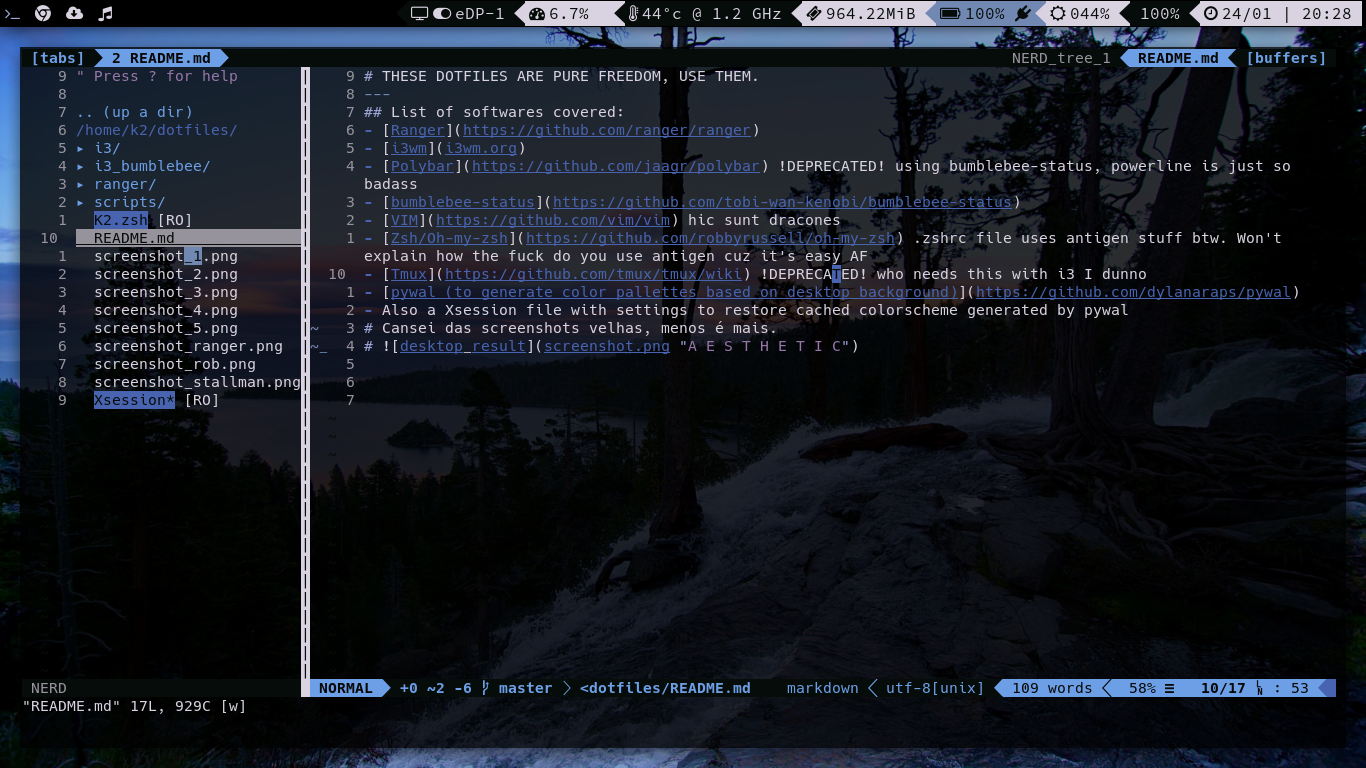
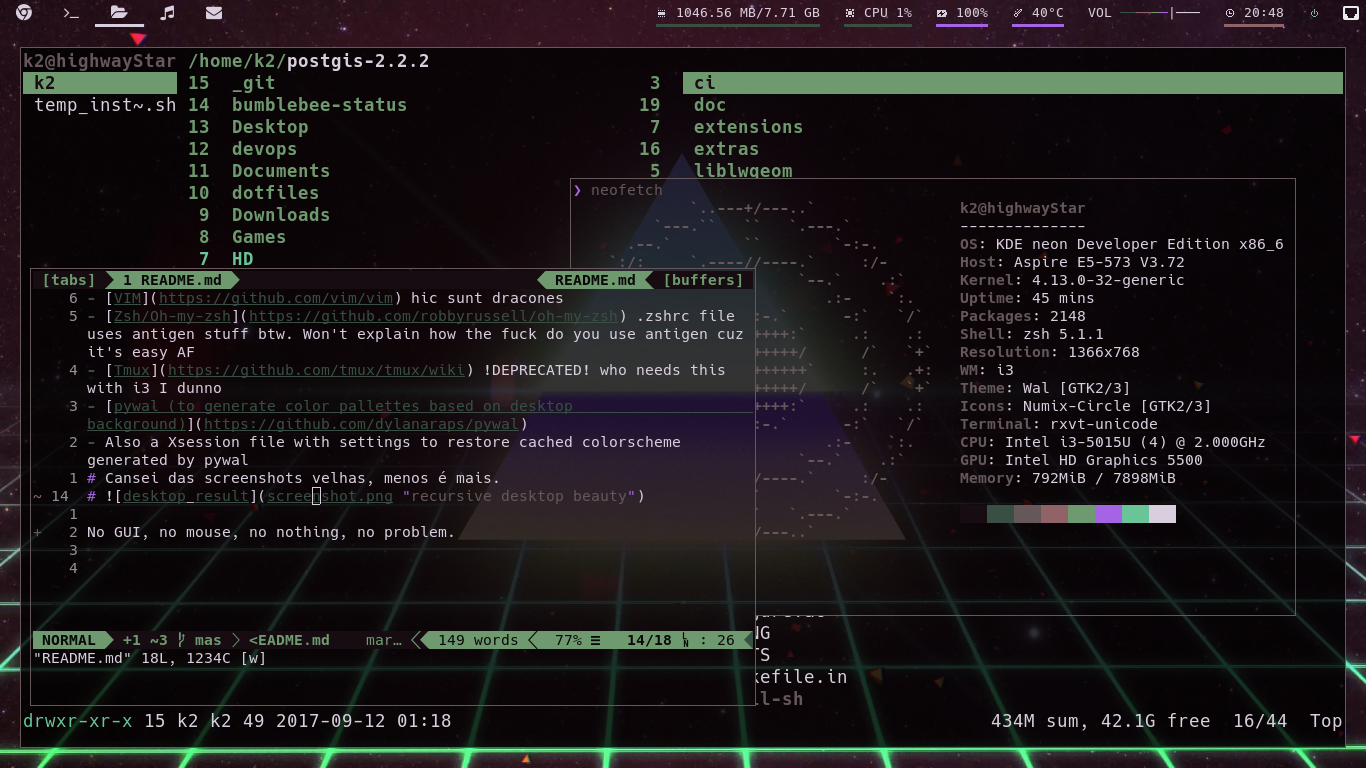
master | 'pra quê fazer uma função pra ficar mudando suas settings ao vivo no VIM?' R: Pegue um arquivo com um milhão de linhas e rode uma macro até o fim com tudo carregado no talo no seu vimrc. Enquanto você espera pacientemente (rs), a resposta virá até você

diff --git a/i3_bumblebee/bumblebee/modules/taskwarrior.py b/i3_bumblebee/bumblebee/modules/taskwarrior.py
@@ -1,0 +1,39 @@
+"""Displays the number of pending tasks in TaskWarrior.
+
+Requires the following library:
+    * taskw
+
+Parameters:
+    * taskwarrior.taskrc : path to the taskrc file (defaults to ~/.taskrc)
+"""
+
+import bumblebee.input
+import bumblebee.output
+import bumblebee.engine
+
+from taskw import TaskWarrior
+
+
+class Module(bumblebee.engine.Module):
+    """TaskWarrior module."""
+
+    def __init__(self, engine, config):
+        """Initialize taskwarrior module."""
+        super(Module, self).__init__(engine, config,
+                                     bumblebee.output.Widget(
+                                         full_text=self.output))
+        self._pending_tasks_count = "0"
+
+    def update(self, widgets):
+        """Return a string with the number of pending tasks from TaskWarrior."""
+        try:
+            taskrc = self.parameter("taskrc", "~/.taskrc")
+            w = TaskWarrior(config_filename=taskrc)
+            pending_tasks = w.filter_tasks({'status': 'pending'})
+            self._pending_tasks_count = str(len(pending_tasks))
+        except:
+            self._pending_tasks_count = 'Error'
+
+    def output(self, _):
+        """Format the task counter to ouptut in bumblebee."""
+        return "{}".format(self._pending_tasks_count)

diff --git a/i3_bumblebee/bumblebee/modules/memory.py b/i3_bumblebee/bumblebee/modules/memory.py
@@ -50,12 +50,13 @@ class Module(bumblebee.engine.Module):
                 if tmp[2] == "mB": value = value*1024*1024
                 if tmp[2] == "gB": value = value*1024*1024*1024
                 data[tmp[0]] = value
+        used = data["MemTotal"] - data["MemFree"] - data["Buffers"] - data["Cached"] - data["Slab"]
         self._mem = {
             "total": bumblebee.util.bytefmt(data["MemTotal"]),
             "available": bumblebee.util.bytefmt(data["MemAvailable"]),
             "free": bumblebee.util.bytefmt(data["MemFree"]),
-            "used": bumblebee.util.bytefmt(data["MemTotal"] - data["MemFree"] - data["Buffers"] - data["Cached"] - data["Slab"]),
-            "percent": (float(data["MemTotal"] - data["MemAvailable"])/data["MemTotal"])*100
+            "used": bumblebee.util.bytefmt(used),
+            "percent": float(used)/float(data["MemTotal"])*100.0
         }
 
     def state(self, widget):

diff --git a/i3_bumblebee/bumblebee/engine.py b/i3_bumblebee/bumblebee/engine.py
@@ -216,9 +216,12 @@ class Engine(object):
     def _read_aliases(self):
         result = {}
         for module in all_modules():
-            mod = importlib.import_module("bumblebee.modules.{}".format(module["name"]))
-            for alias in getattr(mod, "ALIASES", []):
-                result[alias] = module["name"]
+            try:
+                mod = importlib.import_module("bumblebee.modules.{}".format(module["name"]))
+                for alias in getattr(mod, "ALIASES", []):
+                    result[alias] = module["name"]
+            except Exception as error:
+                log.warning("failed to import {}: {}".format(module["name"], str(error)))
         return result
 
     def _load_module(self, module_name, config_name=None):

diff --git a/i3_bumblebee/bumblebee/modules/datetime.py b/i3_bumblebee/bumblebee/modules/datetime.py
@@ -31,7 +31,10 @@ class Module(bumblebee.engine.Module):
         super(Module, self).__init__(engine, config,
             bumblebee.output.Widget(full_text=self.get_time))
         self._fmt = self.parameter("format", default_format(self.name))
-        lcl = self.parameter("locale", ".".join(locale.getdefaultlocale()))
+        l = locale.getdefaultlocale()
+        if not l:
+            l = ('en_US', 'UTF-8')
+        lcl = self.parameter("locale", ".".join(l))
         locale.setlocale(locale.LC_TIME, lcl.split("."))
 
     def get_time(self, widget):

diff --git a/i3_bumblebee/bumblebee/modules/brightness.py b/i3_bumblebee/bumblebee/modules/brightness.py
@@ -29,7 +29,7 @@ class Module(bumblebee.engine.Module):
 
     def brightness(self, widget):
         if isinstance(self._brightness, float):
-            return "{:03.0f}%".format(self._brightness)
+            return "{:3.0f}%".format(self._brightness).strip()
         else:
             return "n/a"
 

diff --git a/README.md b/README.md
@@ -3,15 +3,16 @@
 ## List of softwares covered:
 - [Ranger](https://github.com/ranger/ranger)
 - [i3wm](i3wm.org) - Using fork i3-gaps from [airblader/i3](https://github.com/Airblader/i3)
-- [Polybar](https://github.com/jaagr/polybar) !DEPRECATED! using bumblebee-status, powerline is just so badass
-- [bumblebee-status](https://github.com/tobi-wan-kenobi/bumblebee-status)
+- [Polybar](https://github.com/jaagr/polybar) - TODO: upload full configuration for polybar
+- [bumblebee-status](https://github.com/tobi-wan-kenobi/bumblebee-status) Deprecated because I finally managed to config polybar as I like and it. This one is much much lighter and requires no thousand dependencies to compile, though. Still would recomend it for ease-of-use
 - [VIM](https://github.com/vim/vim) hic sunt dracones
 - [Zsh/Oh-my-zsh](https://github.com/robbyrussell/oh-my-zsh) .zshrc file uses antigen stuff btw. Won't explain how the fuck do you use antigen cuz it's easy AF
 - [Tmux](https://github.com/tmux/tmux/wiki) !DEPRECATED! who needs this with i3 I dunno
 - [pywal (to generate color pallettes based on desktop background)](https://github.com/dylanaraps/pywal)
 - Also a Xsession file with settings to restore cached colorscheme generated by pywal
 # Cansei das screenshots velhas, menos é mais. 
-# ![desktop_result](screenshot.png "A E S T H E T I C")
+# ![desktop_result](screenshot.png "recursive desktop beauty")
 
+No GUI, no mouse, no nothing, no problem.
 
 

diff --git a/i3_bumblebee/README.md b/i3_bumblebee/README.md
@@ -5,7 +5,7 @@
 [![Test Coverage](https://codeclimate.com/github/tobi-wan-kenobi/bumblebee-status/badges/coverage.svg)](https://codeclimate.com/github/tobi-wan-kenobi/bumblebee-status/coverage)
 [![Issue Count](https://codeclimate.com/github/tobi-wan-kenobi/bumblebee-status/badges/issue_count.svg)](https://codeclimate.com/github/tobi-wan-kenobi/bumblebee-status)
 
-**Many, many thanks to all contributors! As of now, 25 of the modules are from various contributors (!), and only 16 from myself.**
+**Many, many thanks to all contributors! As of now, 26 of the modules are from various contributors (!), and only 16 from myself.**
 
 bumblebee-status is a modular, theme-able status line generator for the [i3 window manager](https://i3wm.org/).
 
